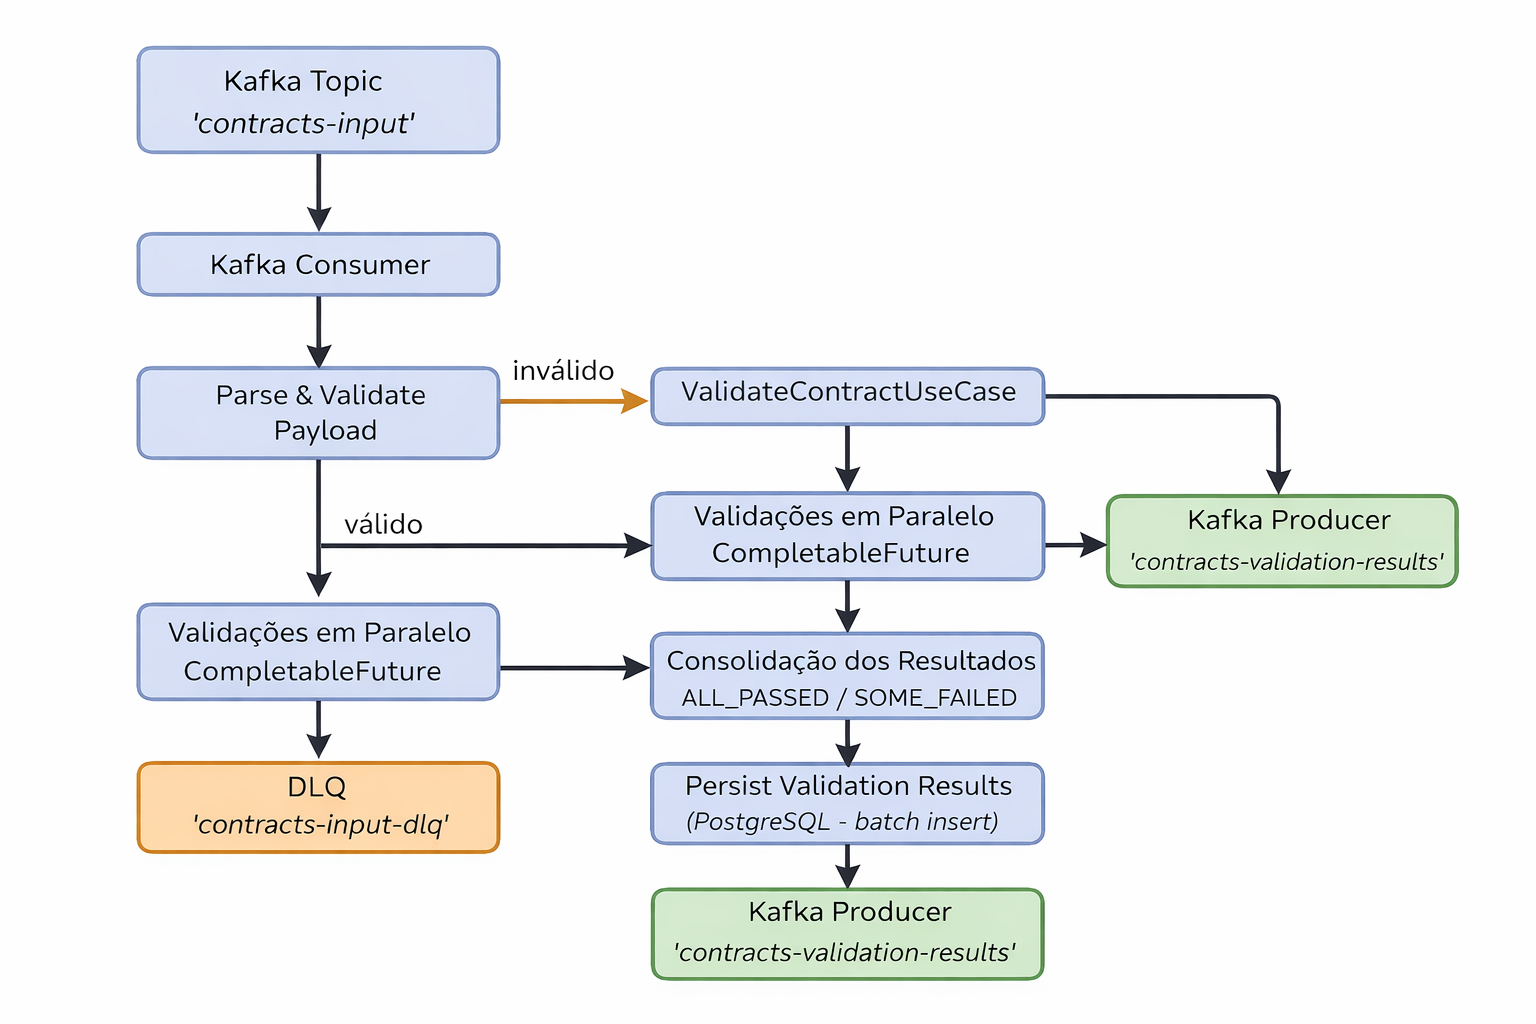
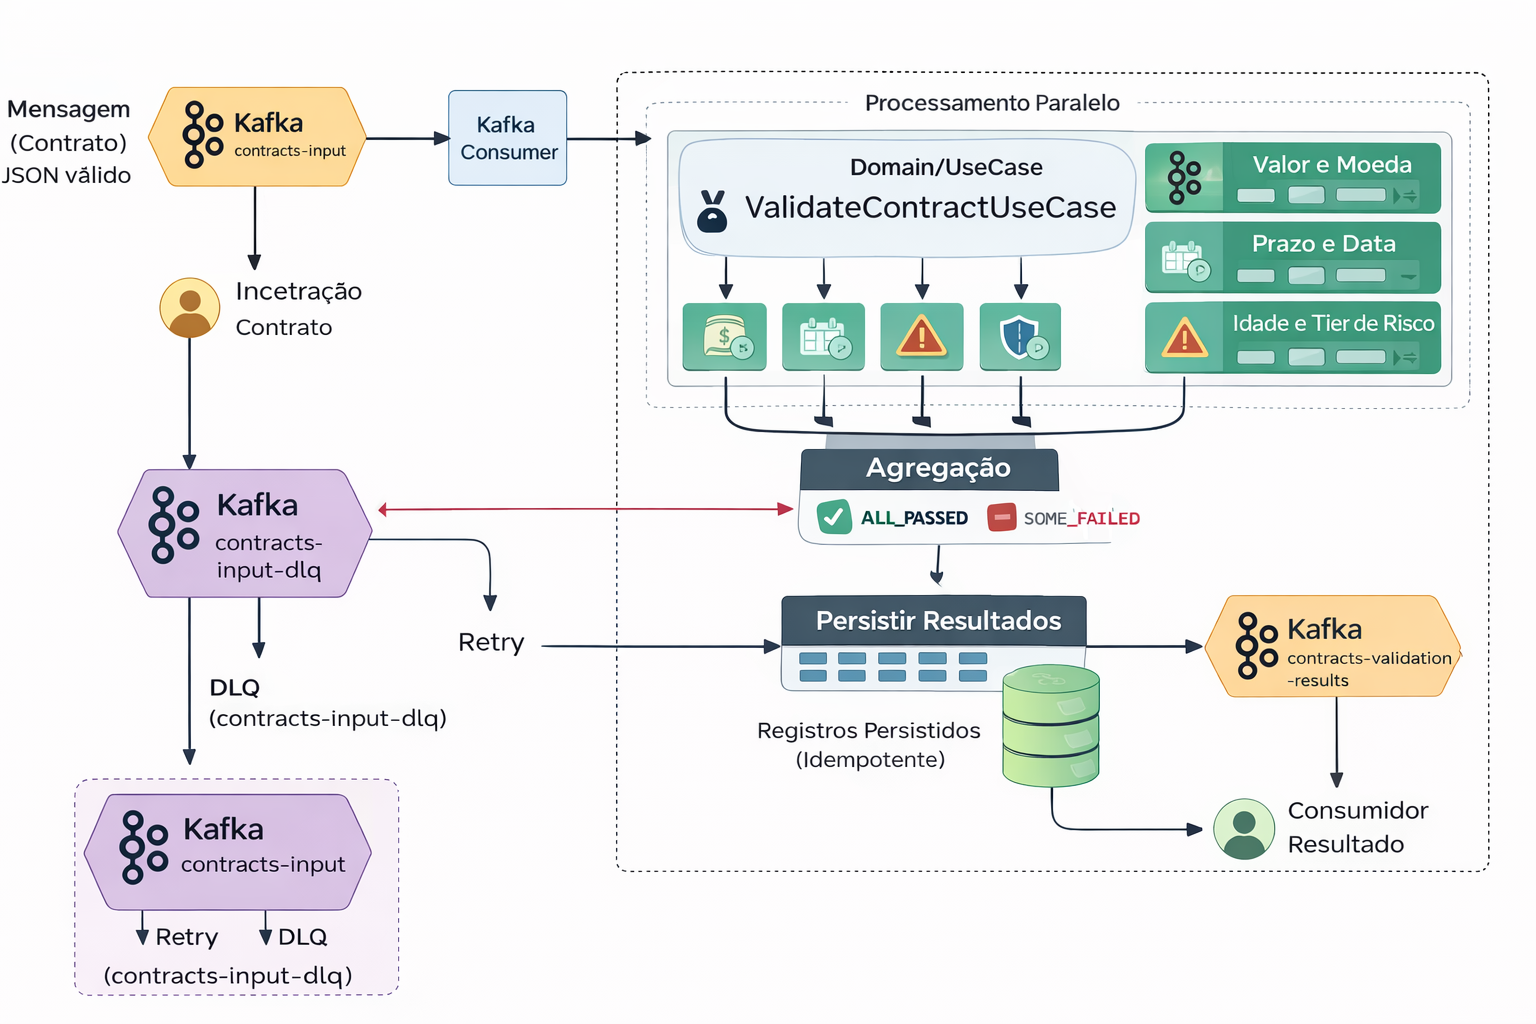
finaliza case de validação assíncrona com Kafka, persistência e observabilidade
- Implementa fluxo completo de validação de contratos com Kafka
- Validações paralelas com CompletableFuture
- Persistência em PostgreSQL com batch insert
- Dead Letter Queue (DLQ) para mensagens inválidas
- Logs estruturados em JSON com correlationId
- Métricas e health checks via Actuator/Micrometer
- Diagrama de fluxo atualizado
- Ajustes de configuração (application.yml, logback, pom)
- Documentação final no README

diff --git a/README.md b/README.md
@@ -1,202 +1,257 @@
 # Contract Validation Service
-**Kafka · Parallel Validation · Persistence · DLQ · Observability**
+**Kafka • Parallel Processing • PostgreSQL • Observability**
 
-Serviço Java/Spring Boot para validação **assíncrona e paralela** de contratos financeiros em alto volume, utilizando **Apache Kafka**, **arquitetura hexagonal** e **processamento resiliente**.
+Serviço Java/Spring Boot para validação de contratos financeiros em alto volume, com **processamento assíncrono**, **validações em paralelo**, **mensageria com Kafka**, **persistência em PostgreSQL** e **observabilidade básica**.
 
----
-
-##  Objetivo
-
-Processar contratos financeiros de forma eficiente e escalável, aplicando **múltiplas regras de validação em paralelo**, persistindo os resultados e publicando o status consolidado para consumo por outros sistemas.
+Este projeto foi desenvolvido como resposta a um **case técnico**, seguindo arquitetura limpa (hexagonal) e boas práticas de engenharia de software.
 
 ---
 
-##  Visão geral do fluxo
+##  Visão Geral
 
-Kafka (contracts-input)
+Fluxo principal do sistema:
 
-ContractKafkaListener
+1. Consome contratos do tópico Kafka `contracts-input`
+2. Valida o payload e converte para o domínio
+3. Executa regras de validação **em paralelo**
+4. Consolida o resultado (`ALL_PASSED` / `SOME_FAILED`)
+5. Persiste os resultados no PostgreSQL (batch)
+6. Publica o resultado no tópico `contracts-validation-results`
+7. Mensagens inválidas são enviadas para a **DLQ**
 
-ValidateContractUseCase
-
-Validações paralelas (CompletableFuture)
-
-Persistência (PostgreSQL - batch)
-
-Kafka (contracts-validation-results)
-
-Erros → Kafka DLQ (contracts-input-dlq)
-
-
-### Passo a passo
-
-1. **Consumer Kafka** consome mensagens do tópico `contracts-input`
-2. Payload JSON é desserializado para objeto de domínio `Contract`
-3. Regras de validação são executadas **em paralelo**
-4. Resultados são consolidados (`ALL_PASSED` ou `SOME_FAILED`)
-5. Resultados individuais são **persistidos em batch** no PostgreSQL
-6. Resultado consolidado é publicado em `contracts-validation-results`
-7. Mensagens inválidas ou falhas irrecuperáveis vão para `contracts-input-dlq`
+ Diagrama do fluxo:  
+`docs/diagrams/contract-validation-flow.png`
 
 ---
 
 ##  Arquitetura
 
-Arquitetura **Hexagonal simplificada (Ports & Adapters)**.
+Arquitetura **hexagonal simplificada (Ports & Adapters)**, com clara separação de responsabilidades.
 
-### Domain
-- Entidades: `Contract`, `ValidationResult`
-- Interface de regra: `ValidationRule`
-- Modelos de domínio independentes de infraestrutura
+###  Estrutura de pacotes
 
-### Application
-- `ValidateContractUseCase`
-- Orquestração das validações paralelas
-- Consolidação do resultado final
+src/main/java/com/larissa/contracts
 
-### Infrastructure
-- Kafka Consumer / Producer
-- Persistência PostgreSQL
-- Configurações Spring, Kafka e Observabilidade
+├── application
+│ └── usecase
+│ └── ValidateContractUseCase
+├── domain
+│ ├── model
+│ ├── validation
+│ └── port
+│ └── ValidationResultPersistencePort
+├── infrastructure
+│ ├── messaging
+│ │ └── kafka
+│ └── persistence
+│ └── postgres
 
-> As regras de negócio não dependem de Kafka, banco ou Spring.
+
+
+### Camadas
+
+- **Domain**
+    - Entidades de negócio
+    - Regras de validação
+    - Portas (interfaces)
+
+- **Application**
+    - Casos de uso
+    - Orquestração do processamento paralelo
+
+- **Infrastructure**
+    - Kafka Consumer / Producer
+    - Persistência PostgreSQL
+    - Configurações técnicas
 
 ---
 
-##  Regras de validação implementadas
+##  Tecnologias Utilizadas
 
-Executadas **em paralelo** e de forma independente:
+- **Java 17**
+- **Spring Boot 3**
+- **Spring Kafka**
+- **Apache Kafka**
+- **PostgreSQL**
+- **Docker / Docker Compose**
+- **CompletableFuture**
+- **Micrometer + Actuator**
+- **Logback (JSON logs)**
+- **JUnit 5**
+- **Mockito**
+- **JaCoCo**
 
-1. Valor entre **1.000 e 5.000.000**
+---
+
+##  Regras de Validação
+
+As validações são independentes e executadas **em paralelo**:
+
+1. Valor entre **R$ 1.000 e R$ 5.000.000**
 2. Moeda suportada: **BRL, USD, EUR**
 3. Prazo entre **12 e 360 meses**
 4. Data de início não pode estar no passado
 5. Idade do cliente entre **18 e 75**
 6. Tier de risco válido: **A, B, C, D**
-7. Garantia obrigatória para valores > **1.000.000**
+7. Garantia obrigatória para valores acima de **R$ 1.000.000**
 8. Renda anual mínima conforme o produto
 
 Cada regra retorna:
+
 - `contractId`
 - `ruleName`
 - `passed`
 - `message`
 - `durationMs`
-- `createdAt`
+
+---
+
+##  Processamento Paralelo
+
+As validações são executadas com `CompletableFuture`, permitindo:
+
+- Melhor throughput
+- Isolamento entre regras
+- Facilidade de escalabilidade
+
+A consolidação define o status geral:
+
+- `ALL_PASSED` → todas as regras aprovadas
+- `SOME_FAILED` → ao menos uma falhou
 
 ---
 
 ##  Persistência
 
 - Banco: **PostgreSQL**
-- Tabela: `contract_validation_results`
-- Inserções realizadas em **batch**
-- Persistência ocorre antes da publicação no Kafka
-- Script SQL executado automaticamente via Docker
+- Persistência via **batch insert**
+- Estrutura da tabela criada automaticamente via script SQL
 
-```sql
-CREATE TABLE contract_validation_results (
-  id BIGSERIAL PRIMARY KEY,
-  contract_id VARCHAR(64) NOT NULL,
-  rule_name VARCHAR(80) NOT NULL,
-  passed BOOLEAN NOT NULL,
-  message TEXT,
-  duration_ms BIGINT NOT NULL,
-  created_at TIMESTAMP NOT NULL DEFAULT NOW(),
-  correlation_id VARCHAR(64)
-);
+ Script:
+docker/postgres/init/001_create_validation_results.sql
 
+yaml
+Copiar código
 
-Resiliência e DLQ
-Retry automático para falhas transitórias
+---
 
-Após exceder tentativas -> mensagem enviada para DLQ
+##  Testes
 
-Tópico DLQ: contracts-input-dlq
+### Testes Unitários
+- Regras de validação
+- Caso de uso principal
 
+### Cobertura
+- Gerada com **JaCoCo**
+- Foco em **Domain** e **Application**
+- Infraestrutura excluída intencionalmente
 
-Utilizado para:
+### Executar testes e cobertura
+```bash
+mvn clean test jacoco:report
+Relatório:
 
-JSON inválido
+bash
+Copiar código
+target/site/jacoco/index.html
+Observabilidade
+Logs
+Logs estruturados em JSON
 
-Payload incompleto
+Campos:
 
-Erros de parsing
+timestamp
 
+level
 
-Observabilidade:
+correlationId
+
+contractId
+
+message
+
+Configuração:
+
+src/main/resources/logback-spring.xml
 Actuator
+Endpoints disponíveis:
+
+Health:
 GET /actuator/health
 
-GET /actuator/health/liveness
-
+Readiness:
 GET /actuator/health/readiness
+
+Liveness:
+GET /actuator/health/liveness
 
 Métricas:
 GET /actuator/metrics
 
+Prometheus:
 GET /actuator/prometheus
 
-Logs estruturados incluem:
 
-contractId
+Subindo o ambiente (Docker)
+Subir Kafka + PostgreSQL
 
-correlationId
-
-Status do processamento
-
-
-Testes:
-
-Testes unitários com JUnit 5 + Mockito
-
-Foco em Domain e Application
-
-Cobertura com JaCoCo
-
----
-
-mvn test
-mvn clean test jacoco:report
-Relatório:
-
-target/site/jacoco/index.html
-
--Infraestrutura com Docker
-Subir serviços
 docker compose up -d
-docker ps
 
-Serviços:
+Criar tópicos Kafka
 
-Kafka
-
-Zookeeper
-
-PostgreSQL
-
-Kafka - Criação dos tópicos
 docker exec -it kafka bash -lc "kafka-topics --bootstrap-server kafka:29092 --create --if-not-exists --topic contracts-input --partitions 3 --replication-factor 1"
 
 docker exec -it kafka bash -lc "kafka-topics --bootstrap-server kafka:29092 --create --if-not-exists --topic contracts-validation-results --partitions 3 --replication-factor 1"
 
 docker exec -it kafka bash -lc "kafka-topics --bootstrap-server kafka:29092 --create --if-not-exists --topic contracts-input-dlq --partitions 3 --replication-factor 1"
 
-Executar a aplicação
+Executando a aplicação
 mvn spring-boot:run
-Enviar contrato (Producer)
+
+Enviando contrato (Producer)
 docker exec -it kafka bash -lc "kafka-console-producer --bootstrap-server kafka:29092 --topic contracts-input"
-Exemplo:
 
-{"contractId":"CNT-2026-0001","clientId":"CL-12345","productType":"CREDIT","amount":250000.00,"currency":"BRL","termMonths":60,"startDate":"2026-02-15","customerAge":35,"clientRiskTier":"A","collateralProvided":true,"attributes":{"annualIncome":90000}}
+Exemplo de payload válido:
+{
+  "contractId": "CNT-TEST-001",
+  "clientId": "CL-123",
+  "productType": "CREDIT",
+  "amount": 250000,
+  "currency": "BRL",
+  "termMonths": 60,
+  "startDate": "2026-02-15",
+  "customerAge": 35,
+  "clientRiskTier": "A",
+  "collateralProvided": true,
+  "attributes": {
+    "annualIncome": 90000
+  }
+}
 
-Consumir resultado
+Consumindo resultados
 docker exec -it kafka bash -lc "kafka-console-consumer --bootstrap-server kafka:29092 --topic contracts-validation-results --from-beginning"
 
-Testar DLQ
-Producer:
-
-{"contractId":
-Consumer DLQ:
-
+Testando DLQ
 docker exec -it kafka bash -lc "kafka-console-consumer --bootstrap-server kafka:29092 --topic contracts-input-dlq --from-beginning"
+
+Envie um JSON inválido para o tópico de entrada:
+{"contractId":
+
+```
+## Considerações Finais
+
+Este projeto foi desenvolvido com foco em:
+
+- Clareza arquitetural
+- Escalabilidade e paralelismo
+- Boas práticas de mensageria
+- Observabilidade e confiabilidade
+- Código limpo, testável e extensível
+
+O serviço está preparado para execução em ambientes distribuídos, suportando múltiplas instâncias via consumer groups Kafka e mantendo consistência dos dados persistidos.
+
+Funcionalidades adicionais como tracing distribuído e dashboards de métricas podem ser facilmente adicionadas sem impacto estrutural.
+
+---
+Desenvolvido por **Larissa Cordeiro**  
+Java Backend Developer
